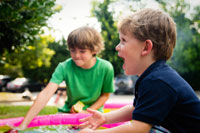
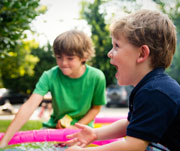
Removed Scroll reveal for footer so that it appears on mobile. Changed out images for optimized copies. Minified js file.

diff --git a/assets/js/index.js b/assets/js/index.js
@@ -31,7 +31,7 @@ new Vue({
      inventory: {
        unicorn: {
          title: "Unicorn Bubble Slide",
-         src: "assets/img/unicorn_bubble_slide.png",
+         src: "assets/img/unicorn_bubble_slide.jpg",
          description: `
             Our premiere visionary item, the Unicorn Mountain Slide can be a bouncy waterless slide or simply hooked up to a standard
             garden hose to add water misting from the archway on down the slide! Comes with a built-in bubble machine - because it's magical!
@@ -44,7 +44,7 @@ new Vue({
        
         mondo: {
             title: "PDX Mondo Slide",
-            src: "assets/img/pdx_mondo_slide.png",
+            src: "assets/img/pdx_mondo_slide.jpg",
             description: `
                 Great for higher volume parties, or night time events, this massive slide has
                 programmable detachable LED lights and can be use wet or dry; a standard garden hose adds water misting
@@ -57,7 +57,7 @@ new Vue({
        
        splash: {
          title: "Splash Pool",
-         src: "assets/img/splash_pool.png",
+         src: "assets/img/splash_pool.jpg",
          description: `
             This 15' x 15' Splash Pool is an easy and almost instant party in the yard!... Or, pair it with any of our other inflatables to pump up the fun even further!
          `,
@@ -68,7 +68,7 @@ new Vue({
        
        disco: {
          title: "Interstellar Dance House",
-         src: "assets/img/intersteller_dance_house.png",
+         src: "assets/img/interstellar_dance_house.jpg",
          description: `
             Built with height clearance for all ages, this bouncy Interstellar Dance House includes a bluetooth-enabled stereo
             system and beat-responsive LED disco ball that changes color when synced to your soundtrack of choice - just plug & play.
@@ -120,7 +120,7 @@ new Vue({
        
        deliver: {
          title: "See Where We Deliver",
-         src: "assets/img/portland_map.jpg",
+         src: "assets/img/portland_map_cover.jpg",
          description: "Just about anywhere in the Portland Metro area, and we're happy to discuss delivering a bit further, of course. (additional fees may apply)",
          name: "deliver",
          button: "Check it Out!",

diff --git a/index.html b/index.html
@@ -56,7 +56,7 @@
         </section>
         
         <section id="inventory">
-          <img src="assets/img/blue_sky.jpeg" class="inventory-bg parallax" data-rellax-speed="2"></img>
+          <img src="assets/img/blue_sky.jpg" class="inventory-bg parallax" data-rellax-speed="2"></img>
           <div class="section-head left-slide">
             <h1>PDX Fun is for Everyone!</h1>
             <h2>Pump up the fun!</h2>
@@ -122,7 +122,7 @@
             <p>Want to partner up? Email me at <a href="mailto:Kathryn.@pdxfun.me?Subject=Lets%20Talk%20Business" target="_top">Kathryn.@pdxfun.me</a></p>
           </div>
           <hr>
-          <p class="slow-slide">&copy; PDX Fun <span id="copy"></span></p>
+          <p>&copy; PDX Fun <span id="copy"></span></p>
           <hr>
         </section>
 
@@ -133,6 +133,6 @@
       <script type="text/javascript" src="assets/js/index.js"></script>
       <script src="https://unpkg.com/scrollreveal/dist/scrollreveal.min.js"></script>
       <script type="text/javascript" src="assets/js/smooth-scroll.min.js"></script>
-      <script type="text/javascript" src="assets/js/scripts.js"></script>
+      <script type="text/javascript" src="assets/js/scripts.min.js"></script>
     </body>
 </html>

diff --git a/assets/js/scripts.min.js b/assets/js/scripts.min.js
@@ -1,0 +1,1 @@
+function openModal(){Math.max(document.documentElement.clientWidth,window.innerWidth||0)<=700?window.open("assets/img/portland_map.jpg","_blank").focus():(body.className+=" no-scroll",modal.classList.remove("closed"))}function closeModal(){body.classList.remove("no-scroll"),modal.className+=" closed"}var rellax=new Rellax(".parallax");smoothScroll.init({offset:80,easing:"easeInOutCubic"}),window.sr=ScrollReveal(),sr.reveal(".left-slide",{origin:"left",distance:"20%"}),sr.reveal(".bottom-slide",{origin:"bottom",distance:"20%"}),sr.reveal(".top-slide",{origin:"top",distance:"20%"}),sr.reveal(".slow-slide",{origin:"bottom",distance:"10px",duration:"1000",opacity:"0",scale:"0.8"}),sr.reveal(".spin",{rotate:{x:180,y:180,z:0},duration:"800"}),sr.reveal(".inflate",{origin:"bottom",distance:"0px",duration:"1000",opacity:"0.5",scale:"0",easing:"cubic-bezier(0.785, 0.135, 0.15, 0.86)"});var body=document.querySelector("body"),modal=document.getElementById("modal-container"),dt=new Date,copy=document.getElementById("copy");copy.innerHTML=dt.getFullYear();var w=Math.max(document.documentElement.clientWidth,window.innerWidth||0);
